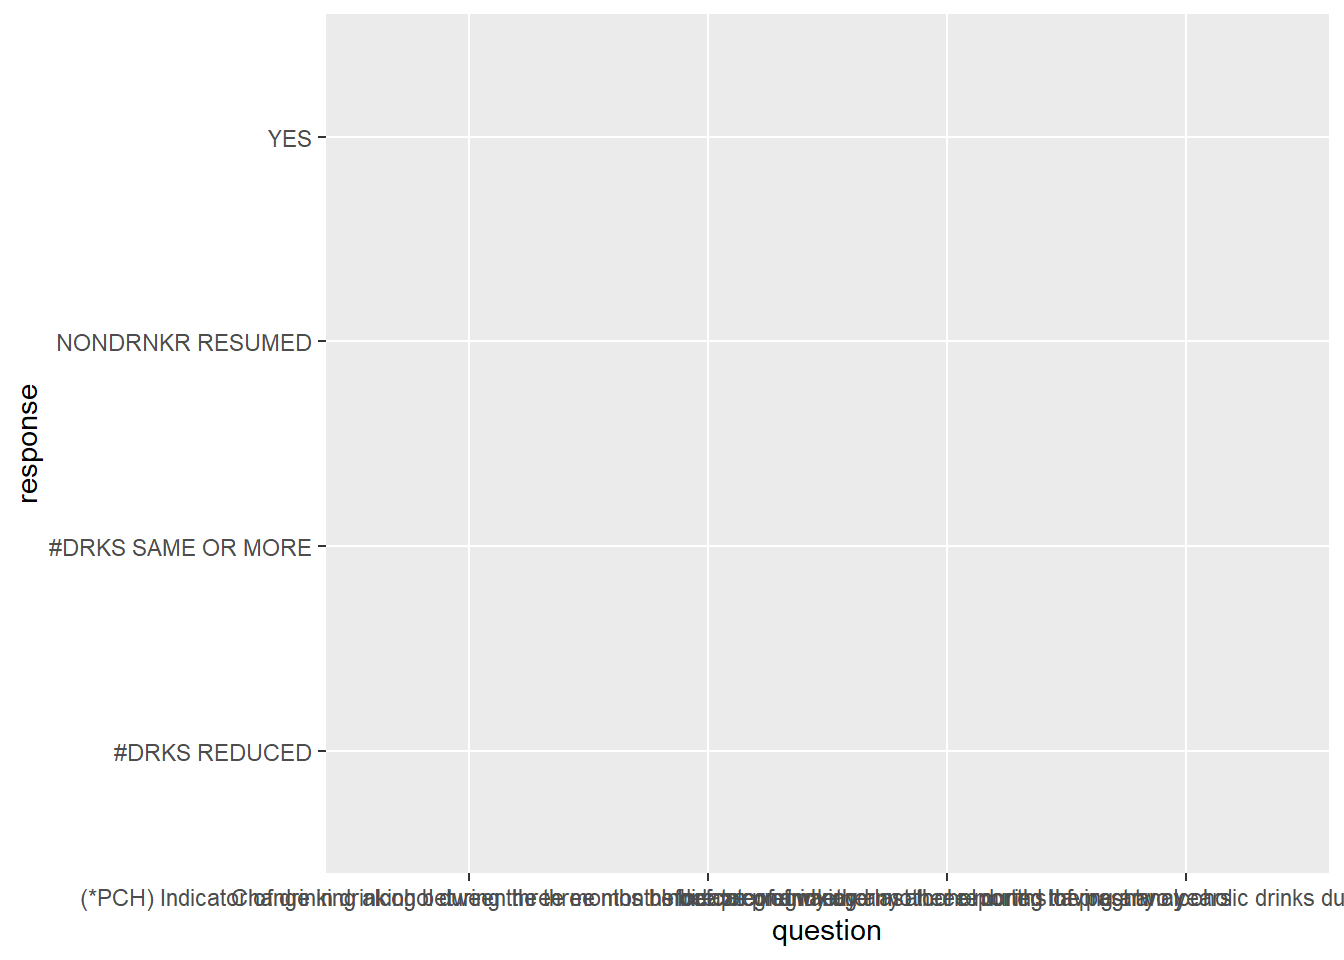
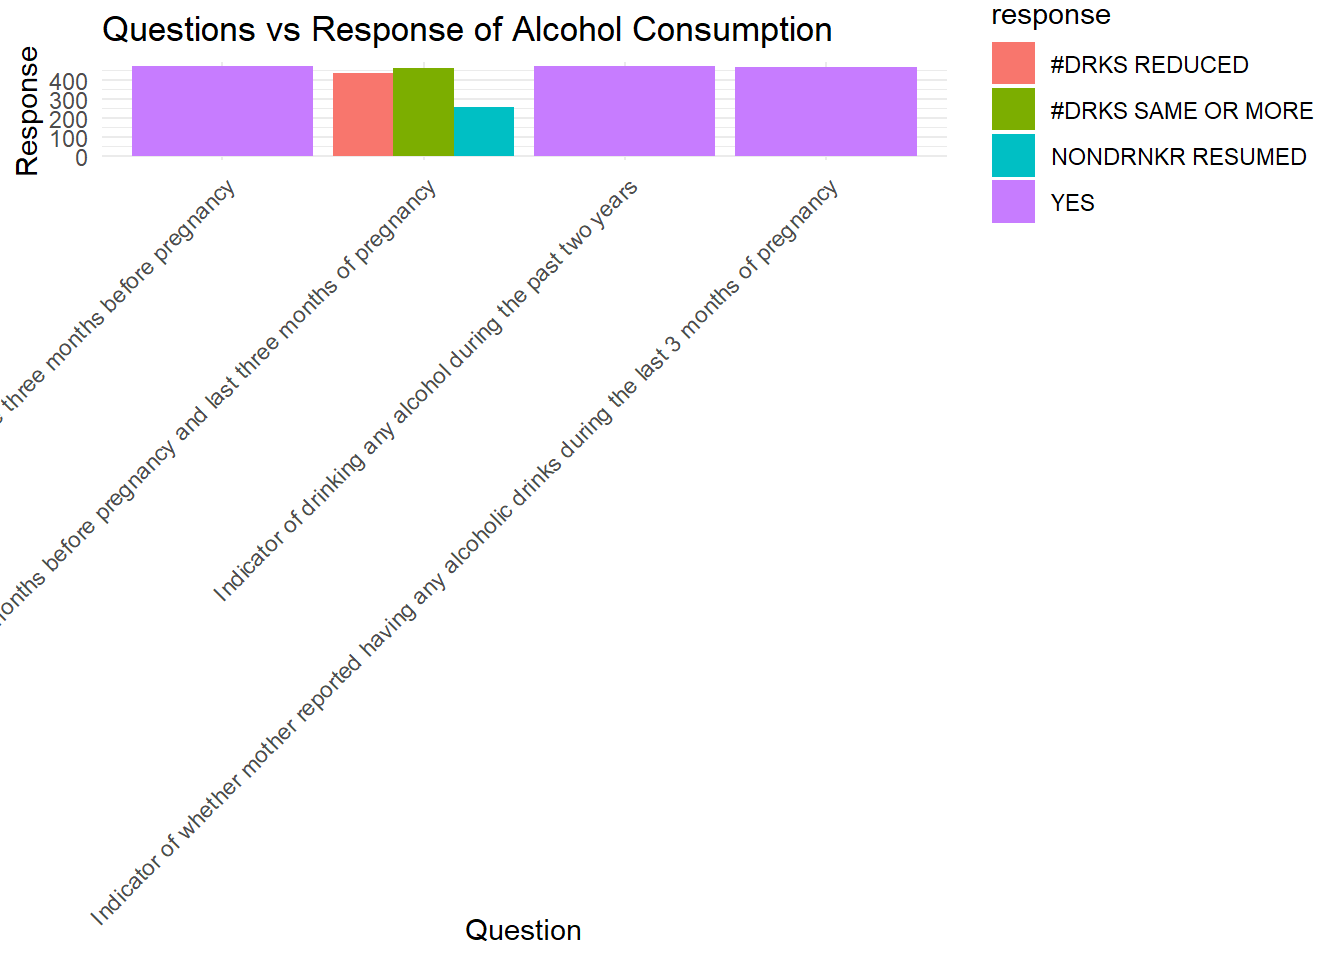
Making alcohol consumption plot

diff --git a/Visualization.html b/Visualization.html
@@ -361,10 +361,9 @@ div.tocify {
 </div>
 
 
-<p>Loading pakcages for the plots</p>
+<p>Testing plot</p>
 <pre class="r"><code>library(ggplot2)
 library(plotly)</code></pre>
-<pre><code>## Warning: package &#39;plotly&#39; was built under R version 4.3.2</code></pre>
 <pre><code>## 
 ## Attaching package: &#39;plotly&#39;</code></pre>
 <pre><code>## The following object is masked from &#39;package:ggplot2&#39;:
@@ -376,11 +375,72 @@ library(plotly)</code></pre>
 <pre><code>## The following object is masked from &#39;package:graphics&#39;:
 ## 
 ##     layout</code></pre>
-<pre class="r"><code>library(flexdashboard)</code></pre>
+<pre class="r"><code>library(flexdashboard)
+library(dplyr)</code></pre>
+<pre><code>## Warning: package &#39;dplyr&#39; was built under R version 4.1.3</code></pre>
+<pre><code>## 
+## Attaching package: &#39;dplyr&#39;</code></pre>
+<pre><code>## The following objects are masked from &#39;package:stats&#39;:
+## 
+##     filter, lag</code></pre>
+<pre><code>## The following objects are masked from &#39;package:base&#39;:
+## 
+##     intersect, setdiff, setequal, union</code></pre>
+<pre class="r"><code>library(tidyverse)</code></pre>
+<pre><code>## Warning: package &#39;tidyverse&#39; was built under R version 4.1.3</code></pre>
+<pre><code>## Warning: package &#39;tibble&#39; was built under R version 4.1.3</code></pre>
+<pre><code>## Warning: package &#39;tidyr&#39; was built under R version 4.1.3</code></pre>
+<pre><code>## Warning: package &#39;readr&#39; was built under R version 4.1.3</code></pre>
+<pre><code>## Warning: package &#39;purrr&#39; was built under R version 4.1.3</code></pre>
+<pre><code>## Warning: package &#39;stringr&#39; was built under R version 4.1.3</code></pre>
+<pre><code>## Warning: package &#39;forcats&#39; was built under R version 4.1.3</code></pre>
+<pre><code>## Warning: package &#39;lubridate&#39; was built under R version 4.1.3</code></pre>
+<pre><code>## -- Attaching core tidyverse packages ------------------------ tidyverse 2.0.0 --
+## v forcats   1.0.0     v stringr   1.5.0
+## v lubridate 1.9.2     v tibble    3.2.1
+## v purrr     1.0.1     v tidyr     1.3.0
+## v readr     2.1.4</code></pre>
+<pre><code>## -- Conflicts ------------------------------------------ tidyverse_conflicts() --
+## x dplyr::filter() masks plotly::filter(), stats::filter()
+## x dplyr::lag()    masks stats::lag()
+## i Use the conflicted package (&lt;http://conflicted.r-lib.org/&gt;) to force all conflicts to become errors</code></pre>
 <p>Plot 1: Alcohol Consumption in relation to Infant Mortality</p>
-<pre class="r"><code>cleaned_alc_2007 |&gt;
-  ggplot( aes( x = question, y = response))</code></pre>
+<pre class="r"><code># Reading in the data
+
+alcohol_data_2007 = read_csv(&quot;./data/PRAM_2007_alcohol.csv&quot;)</code></pre>
+<pre><code>## Rows: 5515 Columns: 23
+## -- Column specification --------------------------------------------------------
+## Delimiter: &quot;,&quot;
+## chr (16): LocationAbbr, Class, Topic, Question, DataSource, Response, Data_V...
+## dbl  (6): Year, Data_Value, Low_Confidence_Limit, High_Confidence_Limit, Sam...
+## lgl  (1): Data_Value_Std_Err
+## 
+## i Use `spec()` to retrieve the full column specification for this data.
+## i Specify the column types or set `show_col_types = FALSE` to quiet this message.</code></pre>
+<pre class="r"><code>cleaned_alc_2007 &lt;- alcohol_data_2007 |&gt;
+  janitor::clean_names() |&gt;
+  select(-data_value_std_err, -geolocation, -data_value_type) |&gt;
+  filter(response != &quot;DRINKER WHO QUIT&quot;) |&gt;
+  filter(response != &quot;NONDRINKER&quot;) |&gt;
+  filter( response != &quot;NO&quot;) |&gt;
+  drop_na(response)
+# Plot of question and responses for alcohol
+
+cleaned_alc_2007 |&gt;
+  ggplot(aes(x = question, fill = response)) +
+  geom_bar(position = &quot;dodge&quot;) +
+  labs(title = &quot;Questions and Responses&quot;, x = &quot;Questions&quot;, y = &quot;Count&quot;) +
+  theme_minimal() +
+  theme(axis.text.x = element_text(angle = 45, hjust = 1))+
+  labs(
+    x = &quot;Question&quot;,
+    y = &quot;Response&quot;,
+    title =  &quot;Questions vs Response of Alcohol Consumption&quot;
+  )</code></pre>
 <p><img src="Visualization_files/figure-html/unnamed-chunk-2-1.png" width="672" /></p>
+<pre class="r"><code>cleaned_alc_2007|&gt;
+  ggplot( aes( x = question, y = response))</code></pre>
+<p><img src="Visualization_files/figure-html/unnamed-chunk-2-2.png" width="672" /></p>
 <p>Plot 2: Tobacco Consumption in relation to Infant Mortality</p>
 <p>Plot 3: No Consumption in relation to Infant Mortality</p>
 
